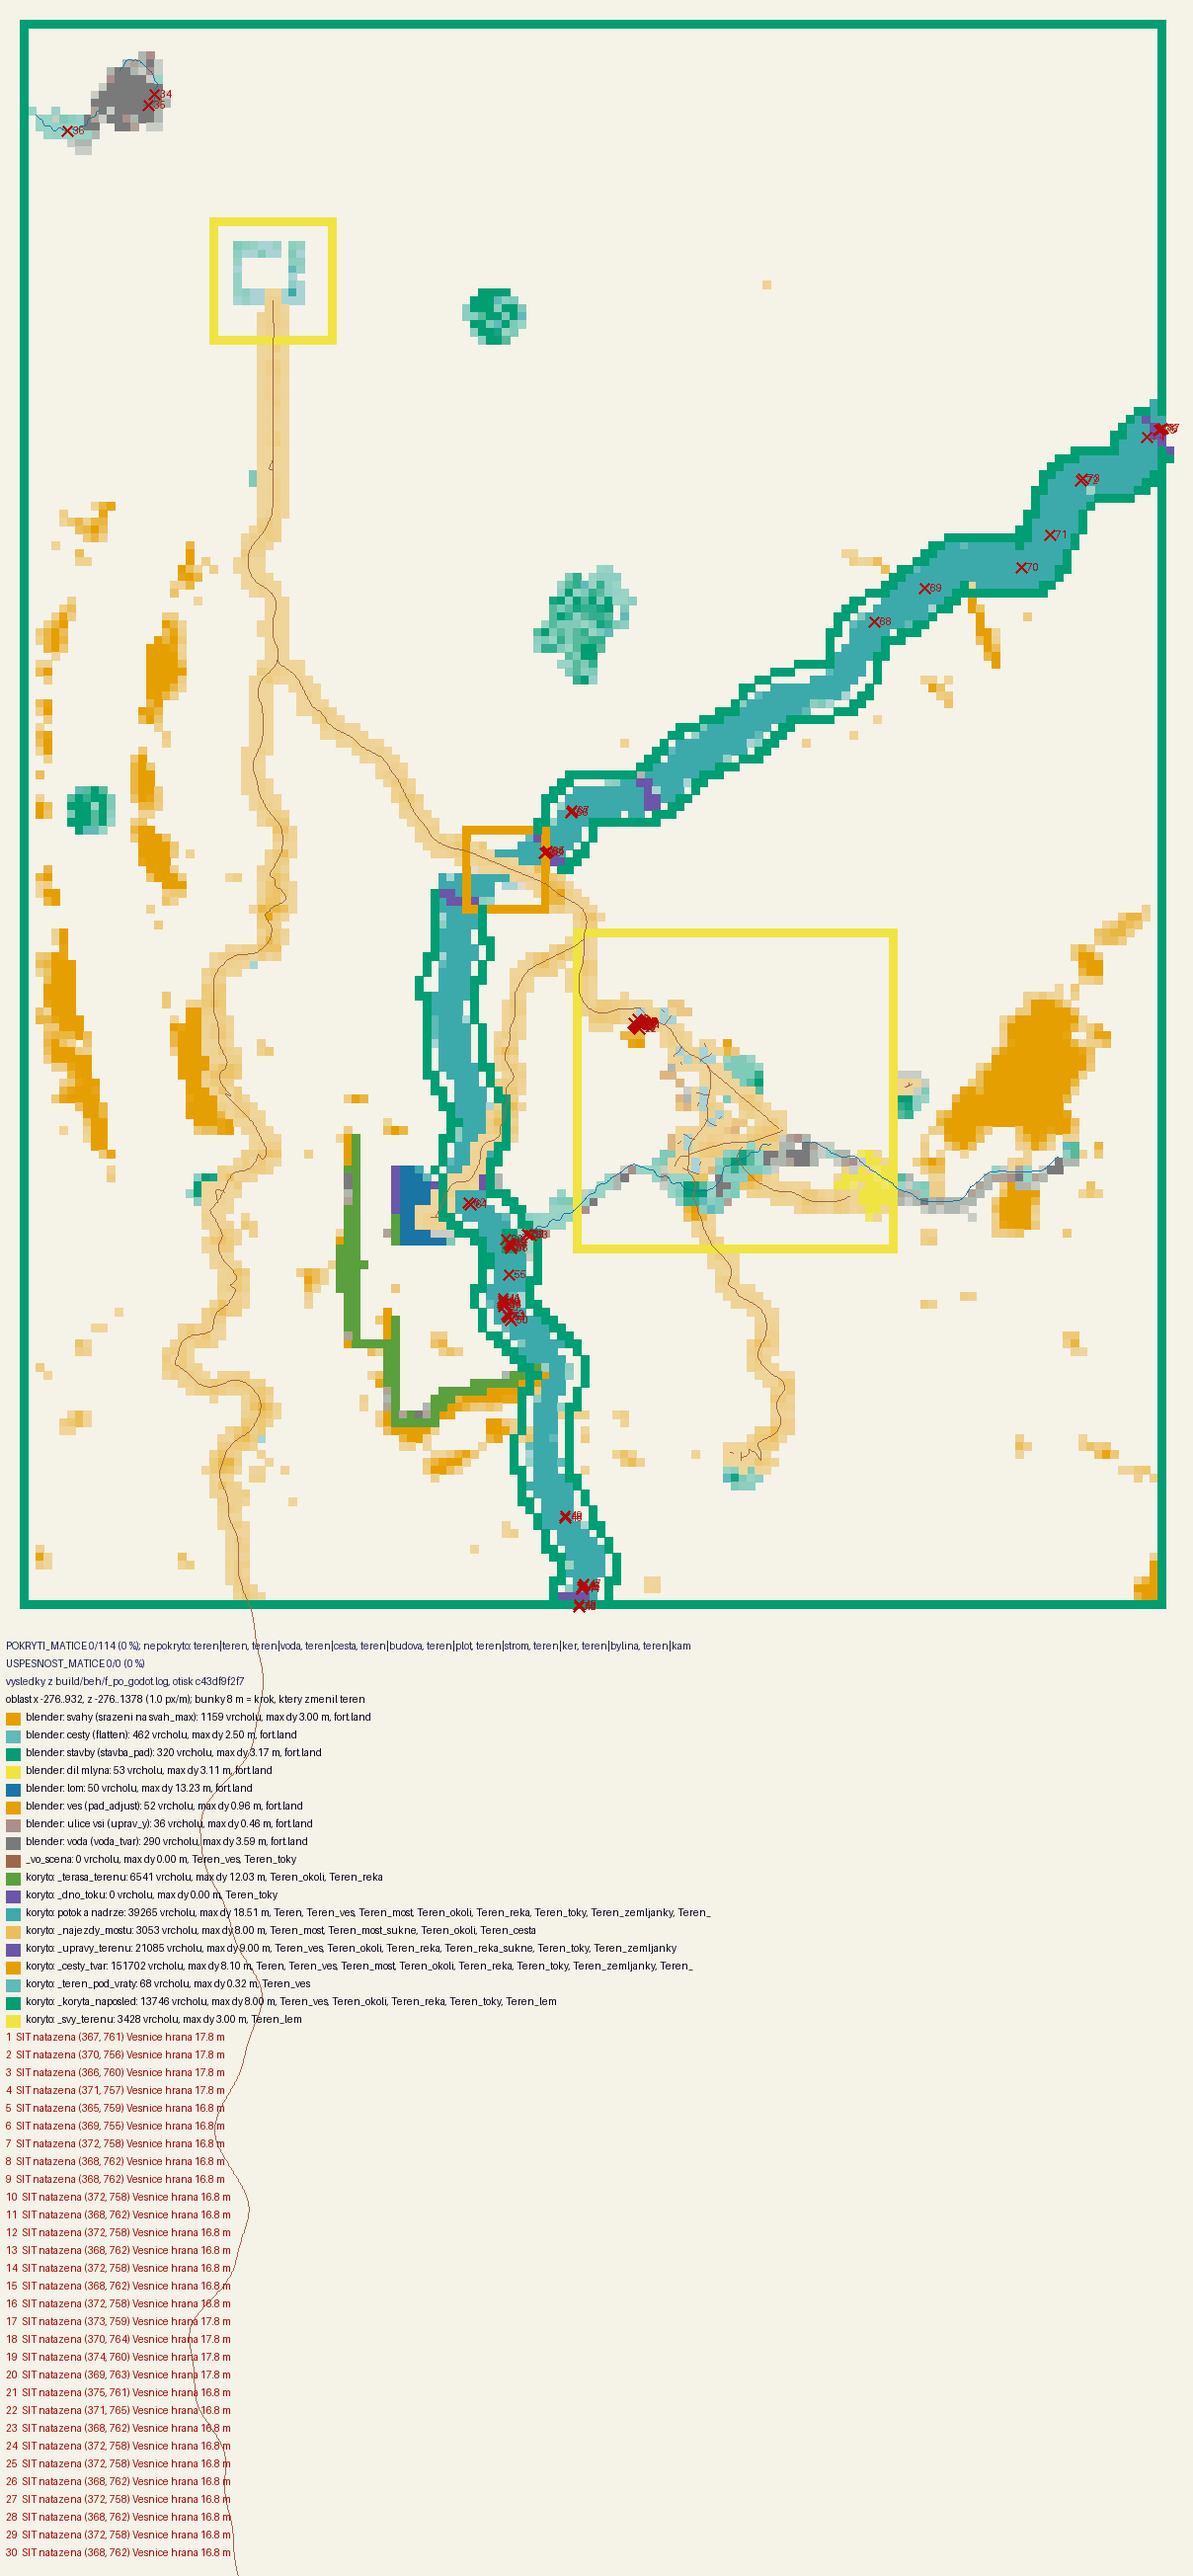
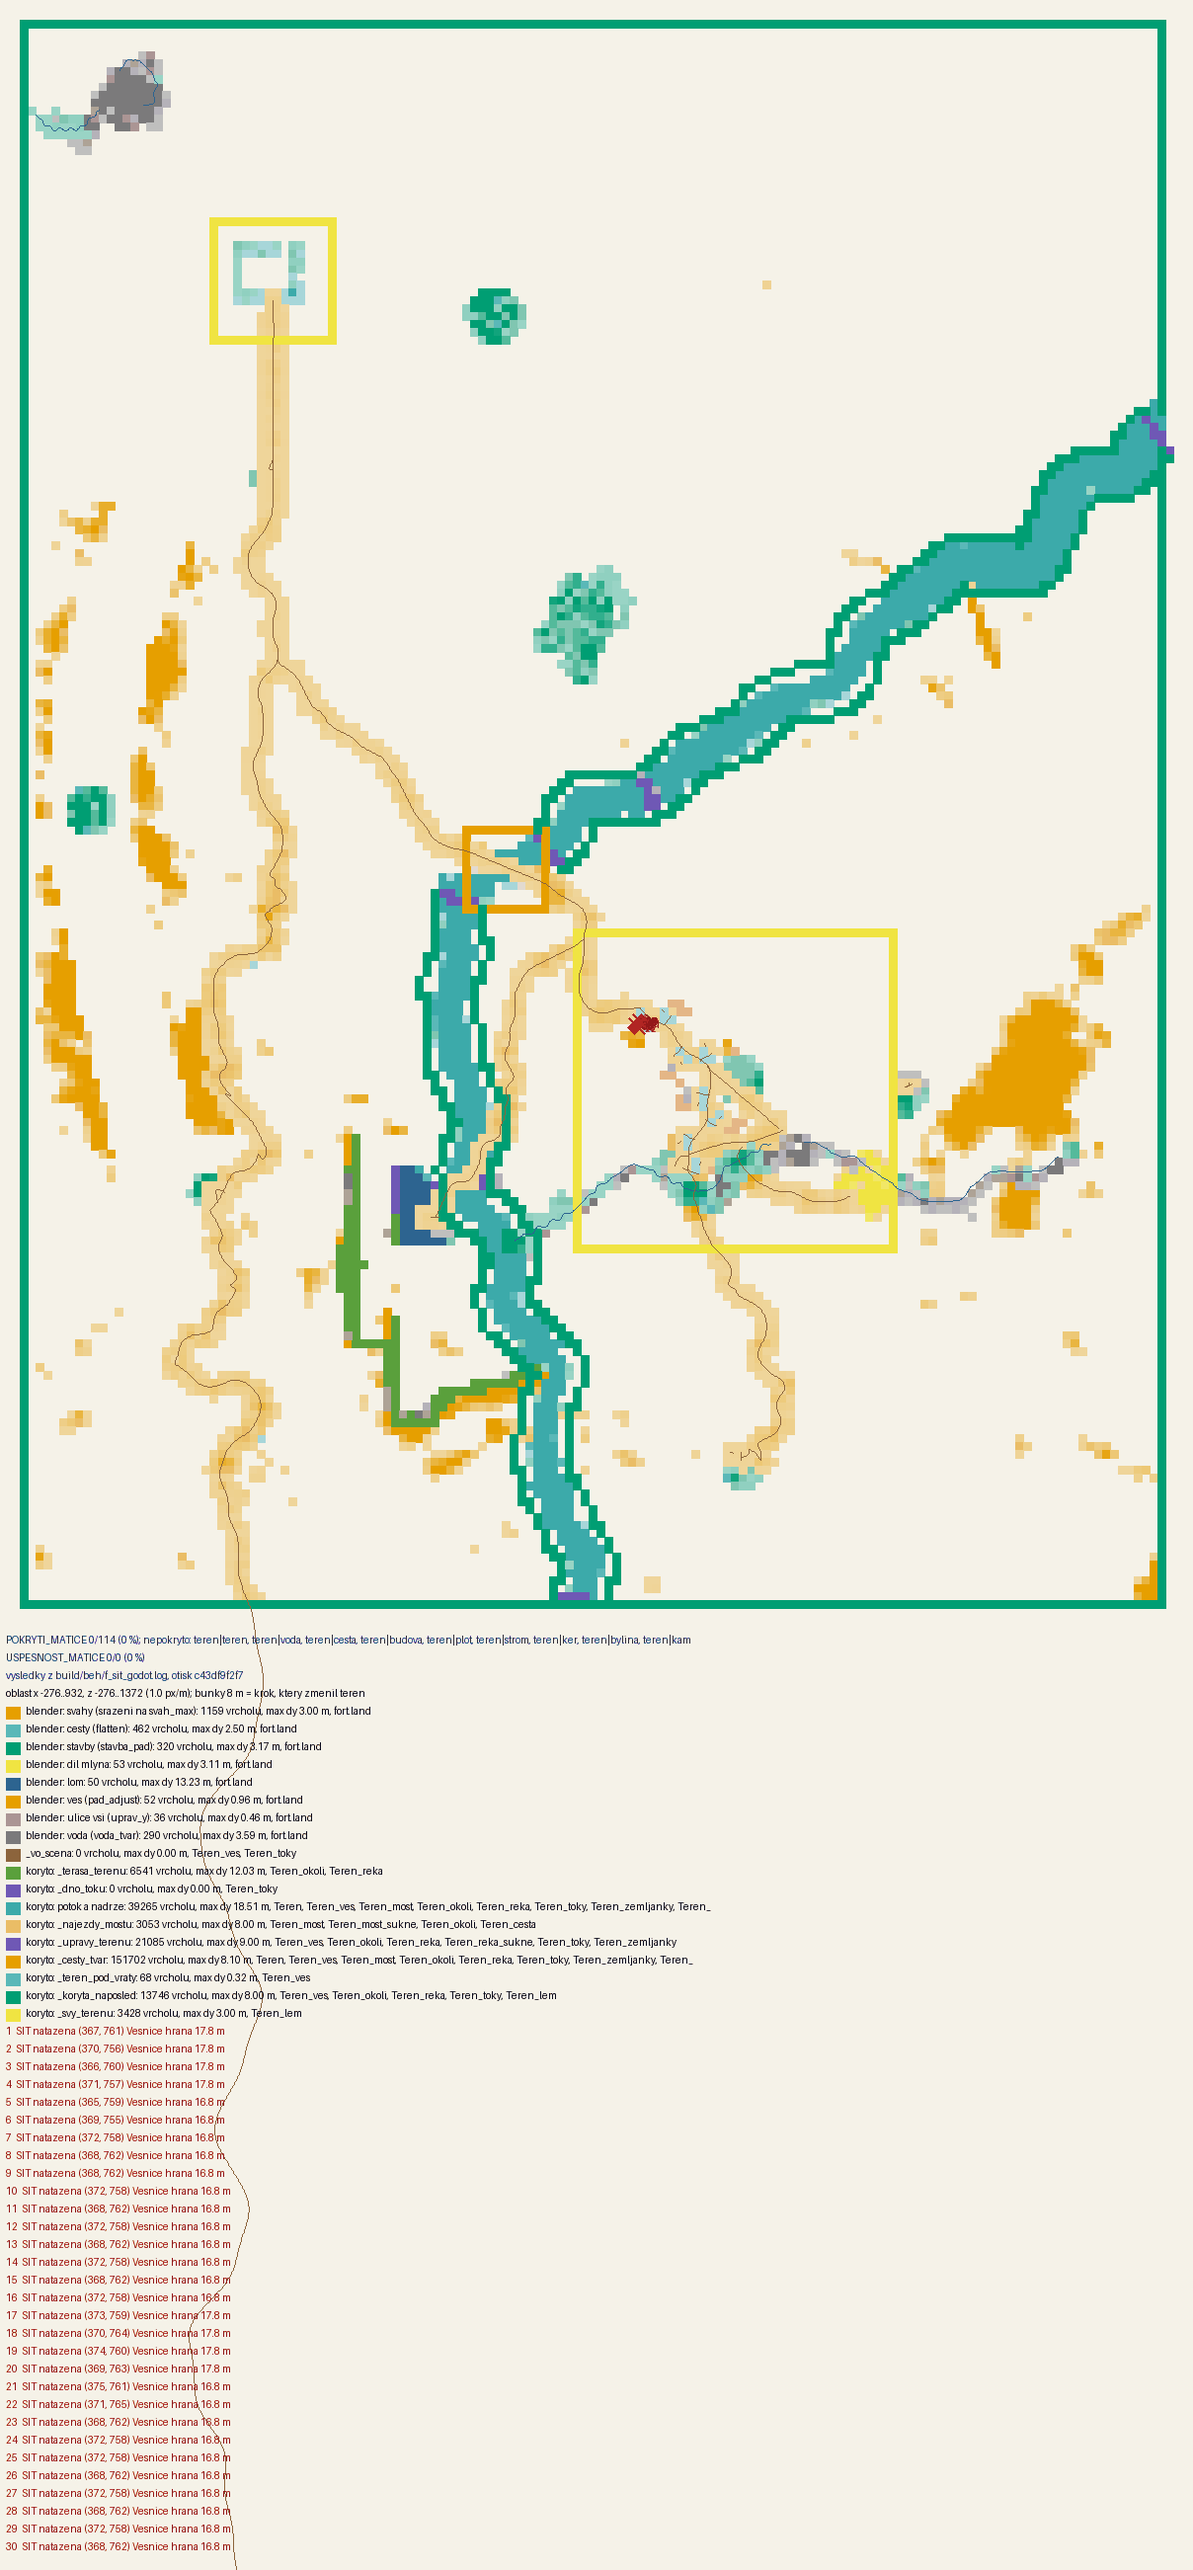
F1/F3: stav v plánu
Claude-Session: https://claude.ai/code/session_01DmjHzC3PfwG8Ks4aG4miuk

diff --git a/docs/rozpracovane/plan_18_11.md b/docs/rozpracovane/plan_18_11.md
@@ -144,6 +144,13 @@ F9. **predmety_cas** 7,18 ms `_vnitrek_krok` v komnatě (plna 16. 11.; ř. 75).
   nenačte („nepolozen, scena false“); v APK balík `p_zahon_bylinky` z 15. 11. – na tabletu NEOVĚŘENO.
 - F1, F3, F9 trvají: `breh_hladky` (zub 254, schod 165), `site_natazene` 36, `dil_okraj` mlýn 0,16 m, `mlyn_zlab` −0,08 m,
   `stavby_na_zemi` ChysePrkna_22 +0,21 (zemljanka).
+- F1 24. 11.: `breh_hladky` měří schod/zub mimo kaskády (raz_toku ≥ 12 %): zub 254 → 70, schod 165 → 7 (kaskády 355 bodů).
+  Zbylé: Bystřice zuby 0,38–0,5 m (síť řeky), 3 na okraji mapy (310, 1350), (897, 159); schody 0,25–0,38 m tvrz_potok a
+  Bystřice (234, 1040). Jemnější síť řeky = víc trojúhelníků na tabletu – nedělá se bez stížnosti z tabletu.
+- F3 24. 11.: lednice mlýna – koryto mimo díl (voda.json mlyn.lednice_koryto) + v dílu voda terén světa jen snižuje
+  (kraj.voda_tvar); `site_natazene` 36 = střecha stodoly usedlosti 1 (16,8 m, snímek build/f/f3_strecha.png bez vady) –
+  planý poplach testu, 2 pokusy o výjimku (rámec domu, placky dvorce) nesedí, stodola je ve slité síti Vesnice bez záznamu;
+  `stavby_na_zemi` ChysePrkna_22 +0,21 (tolerance 0,20; snímek f3_chyse.png v pořádku); `dil_okraj` mlýn 0,16 (mez 0,15).
 - F9 24. 11.: 45 ms z dávky = souběh s focením (sám test 4,9 ms). `_interier` procházel všechny záznamy předmětů každých 0,2 s
   (3,9 ms) → po částech `rozpocty.predmety_vnitrek.zaznamu_krok` 200, celý průchod jen při změně místnosti/viditelných
   místností: `_interier` 3,9 → 0,01–1,5 ms. Zbylé špičky 2,5–7 ms skáčou mezi běhy v `_vnitrek_krok` (rozpočet 1 ms) –
